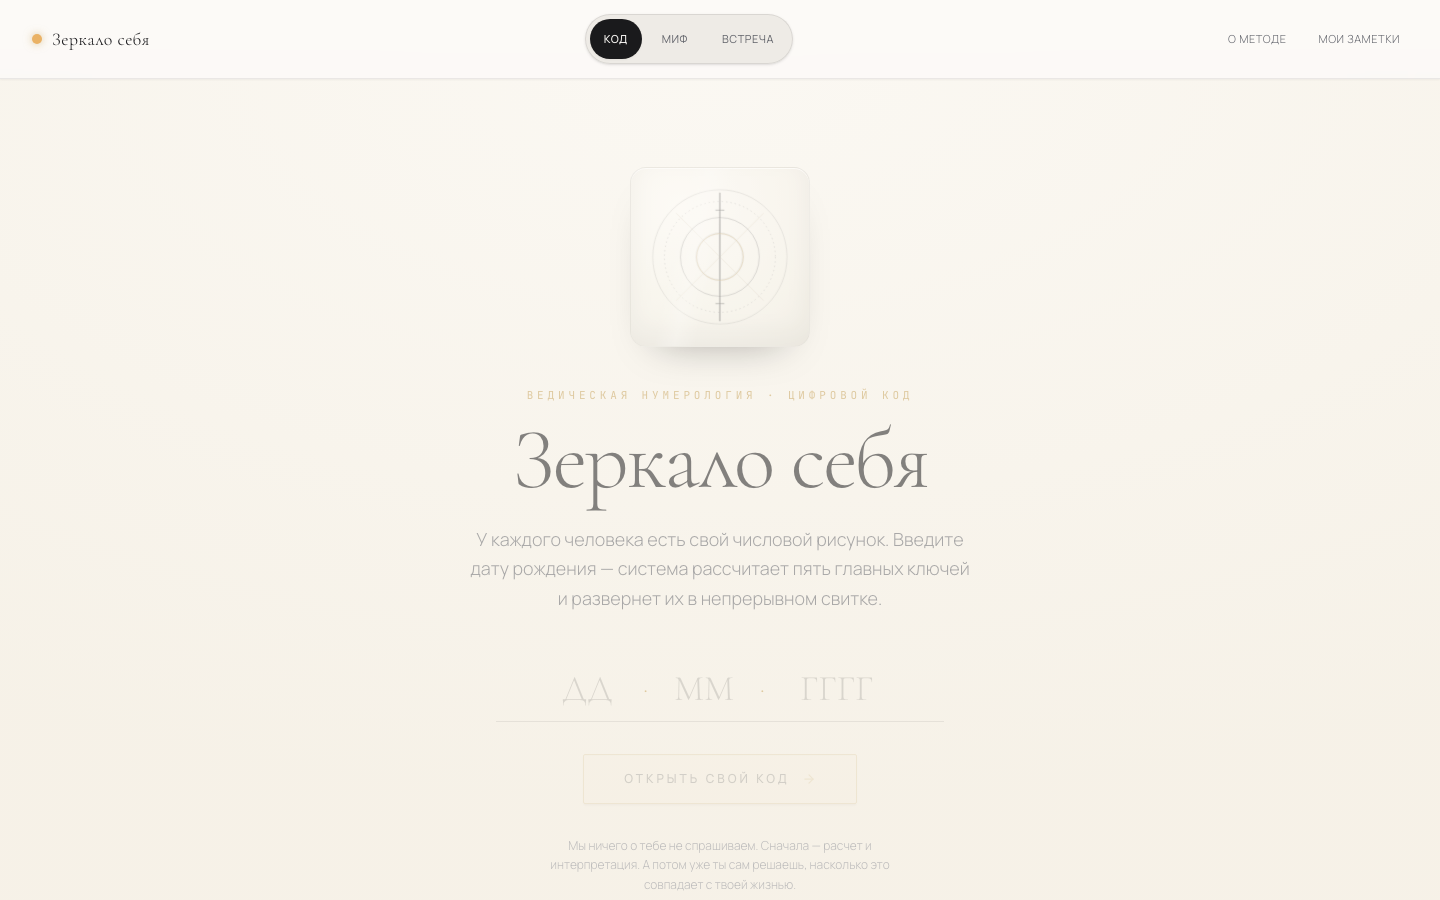
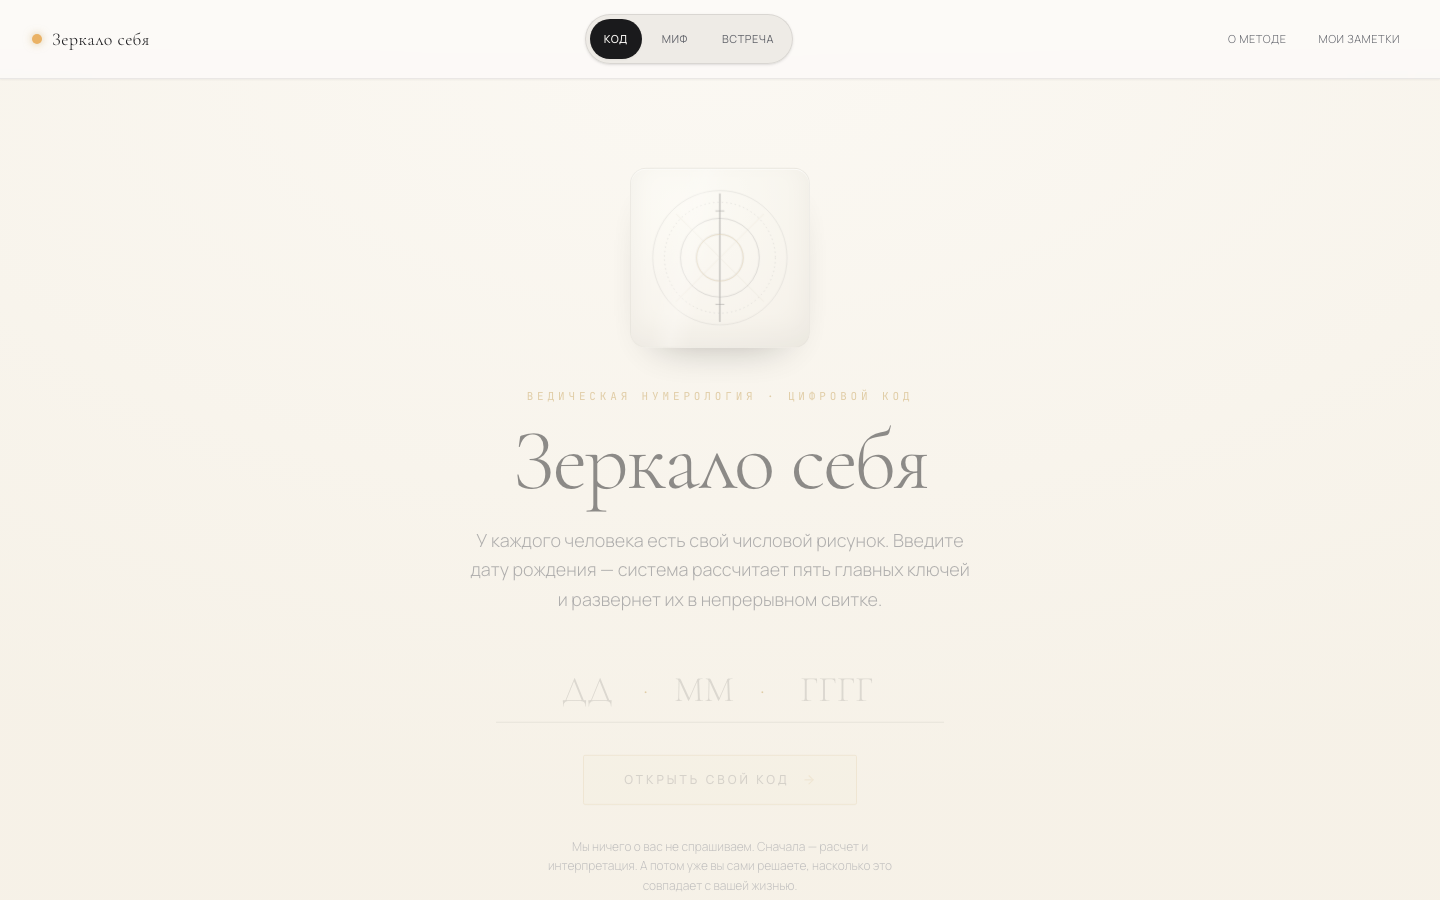
fix(v1.1.1): resolve final review items for code voice contract, canon bounds, safety regression, and endpoint monitoring

diff --git a/src/data/compoundKnowledge.ts b/src/data/compoundKnowledge.ts
@@ -374,39 +374,6 @@ export const compoundKnowledge: Record<string, CompoundKnowledge> = {
     risk: "Надрыв от попыток впихнуть огромные амбиции в жесткие правила повседневной жизни, что приводит к раздражительности и претензиям к близким людям.",
     recommendation: "Направьте свою огромную силу на создание гармонии. Постройте вокруг себя экосистему, где уют, красота и порядок подпитывают ваши амбиции."
   },
-  "28": {
-    value: 28,
-    root: 1,
-    digits: [2, 8],
-    title: "28/10/1",
-    short: "Связка дипломатии и масштабного управления на пути к чистому лидерству.",
-    formula: "2 + 8 → 10 → 1",
-    accent: "Двойка дает понимание человеческих мотивов, а восьмерка — способность управлять ресурсами. В единице это переходит в зрелое, справедливое лидерство.",
-    risk: "Попытка угодить всем (2), совмещенная с авторитарным контролем (8), ведущая к перегрузке.",
-    recommendation: "Принимать решения автономно, опираясь на стратегическое чутье и не пытаясь быть удобным для каждого."
-  },
-  "43": {
-    value: 43,
-    root: 7,
-    digits: [4, 3],
-    title: "43/7",
-    short: "Нестандартное мышление и фундаментальные знания ведут к исследовательской глубине.",
-    formula: "4 + 3 → 7",
-    accent: "Четверка приносит визионерство и прорыв шаблонов, а тройка — системную логику. Вместе они формируют семерку как глубокого аналитика.",
-    risk: "Застревание в бесконечном анализе концепций без выхода в практическую реализацию.",
-    recommendation: "Проверять гипотезы быстрыми практическими тестами, сохраняя баланс между теорией и действием."
-  },
-  "86": {
-    value: 86,
-    root: 5,
-    digits: [8, 6],
-    title: "86/14/5",
-    short: "Масштаб управления и эстетическая гармония синтезируются в гибкую адаптивность.",
-    formula: "8 + 6 → 14 → 5",
-    accent: "Восьмерка задает структурный масштаб, шестерка — качество и баланс отношений, а пятерка обеспечивает быструю реакцию на изменения рынка и среды.",
-    risk: "Распыление между стремлением к идеальному контролю (8) и комфорту (6), снижающее скорость маневра.",
-    recommendation: "Выстраивать гибкую систему делегирования, сохраняя за собой контроль ключевых узлов и свободу выбора."
-  },
   "128": {
     value: 128,
     root: 11,
@@ -420,33 +387,11 @@ export const compoundKnowledge: Record<string, CompoundKnowledge> = {
   },
 };
 
-export function getCompoundFallback(value: number): CompoundKnowledge {
-  const digits = value.toString().split('').map(v => parseInt(v, 10));
-  let sum = digits.reduce((acc, curr) => acc + curr, 0);
-  let root = sum;
-  let formulaStr = digits.join(' + ') + ' → ' + sum;
-  if (sum > 9 && sum !== 11) {
-    const sumDigits = sum.toString().split('').map(v => parseInt(v, 10));
-    root = sumDigits.reduce((acc, curr) => acc + curr, 0);
-    formulaStr += ' → ' + root;
-  }
-  return {
-    value,
-    root,
-    digits,
-    title: value + "/" + root,
-    short: `Скрытый сценарий ${value}/${root}`,
-    formula: formulaStr,
-    accent: `Составное число ${value} соединяет качества цифр ${digits.join(' и ')} с итоговой траекторией числа ${root}.`,
-    risk: `Внутреннее напряжение при согласовании качеств цифр ${digits.join(' и ')} на пути к реализации числа ${root}.`,
-    recommendation: `Опираться на сильные стороны цифры ${digits[0]}, направляя их в созидательное выражение числа ${root}.`
-  };
-}
-
-export function getCompoundKnowledge(compoundStr: string): CompoundKnowledge {
+export function getCompoundKnowledge(compoundStr: string): CompoundKnowledge | null {
+  if (!compoundStr) return null;
   const baseVal = parseInt(compoundStr.split('/')[0], 10);
   if (compoundKnowledge[baseVal]) {
     return compoundKnowledge[baseVal];
   }
-  return getCompoundFallback(baseVal);
+  return null;
 }

diff --git a/src/services/interpretation.test.ts b/src/services/interpretation.test.ts
@@ -52,23 +52,46 @@ describe('Digital Code Editorial Engine (Interpretation)', () => {
           expect(unique.size).toBe(normalized.length);
         });
       });
+
+      it('strictly obeys semantic safety boundaries (no clinical diagnoses, esoteric claims, or fatalistic guarantees)', () => {
+        mirror.blocks.forEach((b) => {
+          // No clinical/therapeutic diagnosing language
+          expect(b.text).not.toMatch(/\b(диагноз|исцелен|патолог|терапи|симптом|лечени)\w*/i);
+          // No forbidden esoteric / magic jargon
+          expect(b.text).not.toMatch(/\b(карм|магическ|эзотерик|астрал|порч|сглаз)\w*/i);
+          // No fatalistic predictions or rigid guarantees
+          expect(b.text).not.toMatch(/\b(гарантированно|неизбежно|вам суждено|вы точно|на 100%)\b/i);
+        });
+      });
+
+      it('contains no broken subordinate clause fragments or forbidden pseudo-depth templates', () => {
+        mirror.blocks.forEach((b) => {
+          expect(b.text).not.toMatch(/когда вам нужно [а-яё]+ (и|или) [а-яё]+/i);
+          expect(b.text).not.toMatch(/где вы сможете [а-яё]+те\b/i); // e.g. "где вы сможете осознайте"
+          expect(b.text).not.toMatch(/вы транслируете способность/i);
+        });
+      });
     });
   });
 
-  it('verifies 15.03.1990 editorial quality and distinct compound nuances', () => {
+  it('verifies 15.03.1990 editorial quality and clean omission of unsupported compound semantics', () => {
     const calc = calculateDigitalCode('15.03.1990');
     const mirror = generateFirstMirror(calc);
     const tensionBlock = mirror.blocks.find(b => b.id === 'tension');
     const stepBlock = mirror.blocks.find(b => b.id === 'step');
 
     expect(tensionBlock).toBeDefined();
-    expect(tensionBlock!.text).toContain('Скрытый сценарий перехода (28/10/1)');
-    expect(tensionBlock!.text).toContain('Векторный нюанс (43/7)');
-    // Assert 28/10/1 and 43/7 do not have identical text
-    expect(tensionBlock!.text).not.toMatch(/Скрытый сценарий перехода \(28\/10\/1\): (.+)\n\nВекторный нюанс \(43\/7\): \1/);
+    // Base tension lines must be present and well-formed
+    expect(tensionBlock!.text).toContain('По линии Направления характерно следующее напряжение:');
+    expect(tensionBlock!.text).toContain('По линии Пути может проявляться:');
+    // Unsupported compound paragraphs must not be fabricated
+    expect(tensionBlock!.text).not.toContain('Скрытый сценарий перехода (28/10/1)');
+    expect(tensionBlock!.text).not.toContain('Векторный нюанс (43/7)');
 
     expect(stepBlock).toBeDefined();
-    expect(stepBlock!.text).toContain('Дополнительный фокус (86/14/5)');
+    expect(stepBlock!.text).toContain('Практический ориентир по Направлению:');
+    expect(stepBlock!.text).toContain('Ориентир по линии Результата:');
+    expect(stepBlock!.text).not.toContain('Дополнительный фокус (86/14/5)');
   });
 
   it('verifies exact block ids for 06.05.1986', () => {
@@ -76,5 +99,18 @@ describe('Digital Code Editorial Engine (Interpretation)', () => {
     const mirror = generateFirstMirror(calc);
     const blockIds = mirror.blocks.map(b => b.id);
     expect(blockIds).toEqual(['main_pattern', 'strength', 'tension', 'step', 'resonance']);
+  });
+
+  it('CODE_VOICE_CONTRACT: static Code surface and AlabasterSanctuary have zero informal second-person words', async () => {
+    const fs = await import('fs');
+    const path = await import('path');
+    const alabasterCode = fs.readFileSync(path.resolve(__dirname, '../components/AlabasterSanctuary.tsx'), 'utf-8');
+    
+    // Check all user-facing JSX text inside AlabasterSanctuary.tsx
+    const informalRegex = /\b(ты|тебя|тебе|тобой|тобою|твой|твоя|твое|твоё|твои|твоих|твоем|твоём|твоей|твоему|твоим|твоими)\b/i;
+    
+    // Extract JSX text nodes and strings
+    const matches = alabasterCode.match(informalRegex);
+    expect(matches).toBeNull();
   });
 });

diff --git a/src/components/AlabasterSanctuary.tsx b/src/components/AlabasterSanctuary.tsx
@@ -272,7 +272,7 @@ export function AlabasterSanctuary({
             </button>
 
             <p className="text-xs text-[#8C8E96] font-light leading-relaxed max-w-sm">
-              Мы ничего о тебе не спрашиваем. Сначала — расчет и интерпретация. А потом уже ты сам решаешь, насколько это совпадает с твоей жизнью.
+              Мы ничего о вас не спрашиваем. Сначала — расчет и интерпретация. А потом уже вы сами решаете, насколько это совпадает с вашей жизнью.
             </p>
           </form>
         </motion.div>

diff --git a/docs/evidence/v1_1_1-human-audit/EDITORIAL_15_03_1990.md b/docs/evidence/v1_1_1-human-audit/EDITORIAL_15_03_1990.md
@@ -38,10 +38,6 @@
 
 По линии Пути может проявляться: Склонность игнорировать опыт других, 'изобретение велосипеда'.
 
-Скрытый сценарий перехода (28/10/1): Попытка угодить всем (2), совмещенная с авторитарным контролем (8), ведущая к перегрузке.
-
-Векторный нюанс (43/7): Застревание в бесконечном анализе концепций без выхода в практическую реализацию.
-
 ---
 
 ### 4. Первый практический шаг
@@ -50,8 +46,6 @@
 Практический ориентир по Направлению: Развивайте личный бренд через экспертный глубокий контент. Пусть вас находят сами.
 
 Ориентир по линии Результата: Создавайте фильтры. Не все двери, которые вы можете открыть, стоит открывать.
-
-Дополнительный фокус (86/14/5): Выстраивать гибкую систему делегирования, сохраняя за собой контроль ключевых узлов и свободу выбора.
 
 ---
 
@@ -63,6 +57,7 @@
 ---
 
 ## Checks
+- `UNSUPPORTED_COMPOUND_SEMANTICS_ADDED = 0` (PASS)
 - `DUPLICATE_COMPOUND_PARAGRAPHS = 0` (PASS)
 - `EDITORIAL_15_03_1990 = PASS`
 - `VOICE_CONTRACT = ВЫ` (PASS)

diff --git a/docs/evidence/v1_1-final/CALCULATION_REGRESSION_REPORT.md b/docs/evidence/v1_1-final/CALCULATION_REGRESSION_REPORT.md
@@ -1,6 +1,6 @@
 # Zerkalo V1.1 — Golden 25-Date Calculation Regression Report
 
-Generated: 2026-08-18T10:07:08.856Z  
+Generated: 2026-08-18T10:19:30.885Z  
 Target: Protocol Calculation v1 (`docs/canon/PROTOCOL_CALCULATION_V1.md`)  
 Implementation: `src/services/calculator.ts`
 
